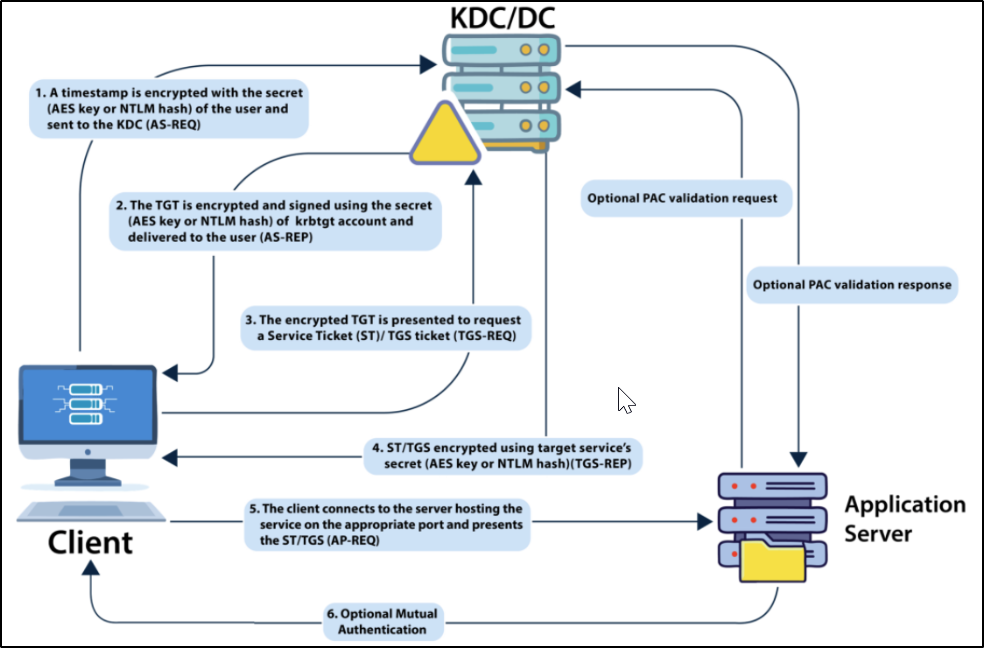
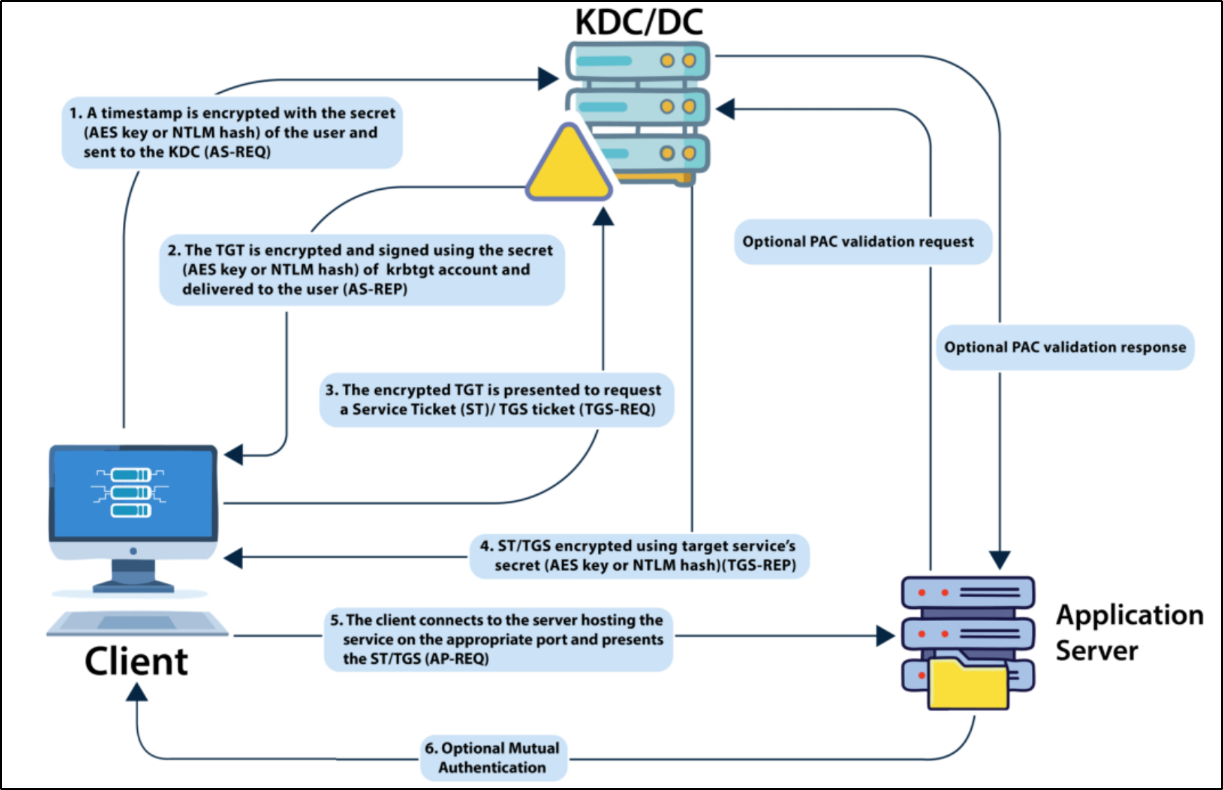
GITBOOK-243: No subject

diff --git a/network/active-directory/exploitation/persistence/diamond-ticket.md b/network/active-directory/exploitation/persistence/diamond-ticket.md
@@ -1,2 +1,13 @@
 # Diamond Ticket
 
+{% hint style="info" %}
+* Created by decrypting a valid TGT, making changes to it, and re-encrypting it using the AES keys of the krbtgt account.
+* Golden ticket was a TGT forging attack, whereas diamond ticket is a TGT modification attack.
+* Persistence lifetime depends on the krbtgt account.
+* A diamond ticket is more **opsec** safe as it has:
+  * Valid ticket times because a TGT issued by the DC is modified.
+  * **In golden ticket, there is no corresponding TGT request for TGS/Service ticket requests as the TGT is forged.**
+
+<p align="center"><img src="../../../../.gitbook/assets/Diamond Ticket.png" alt=""></p>
+{% endhint %}
+
